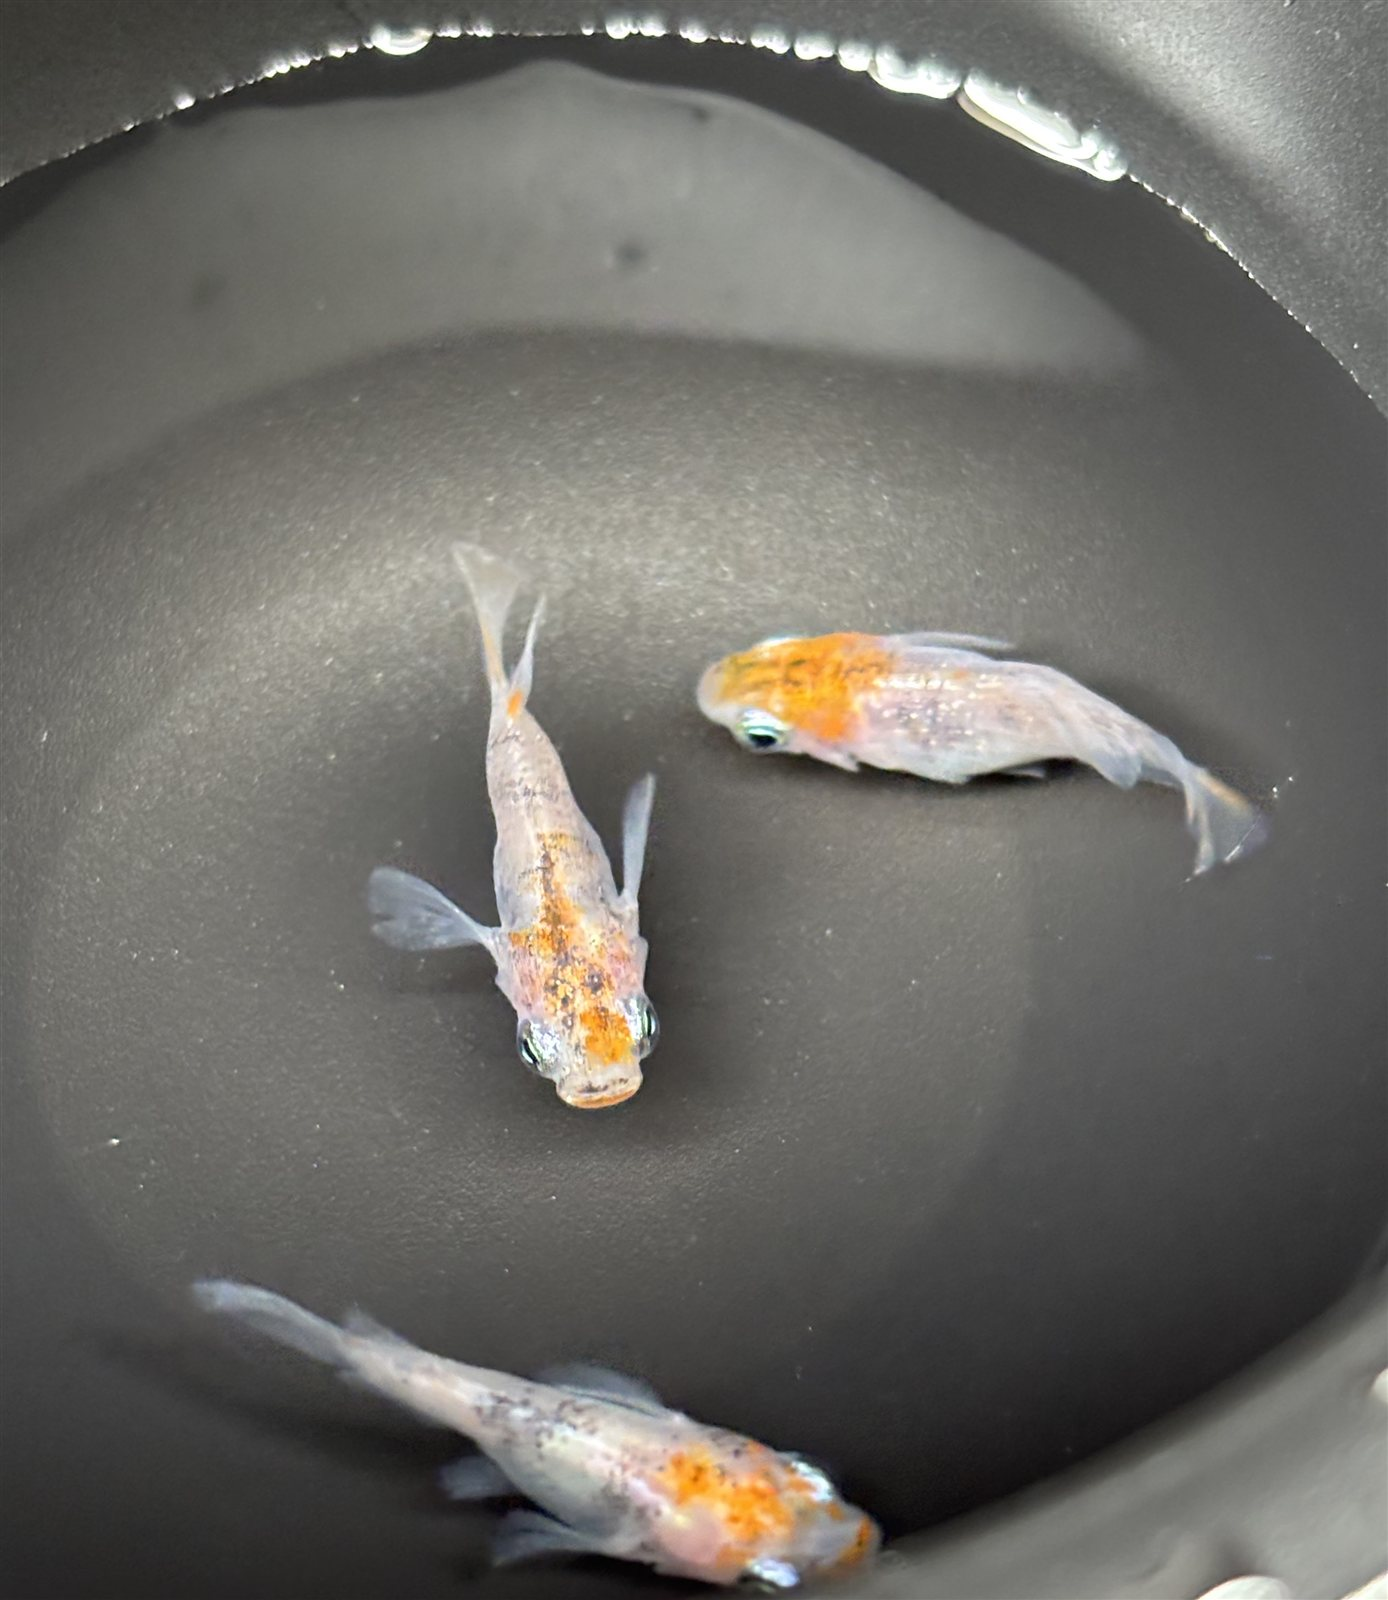
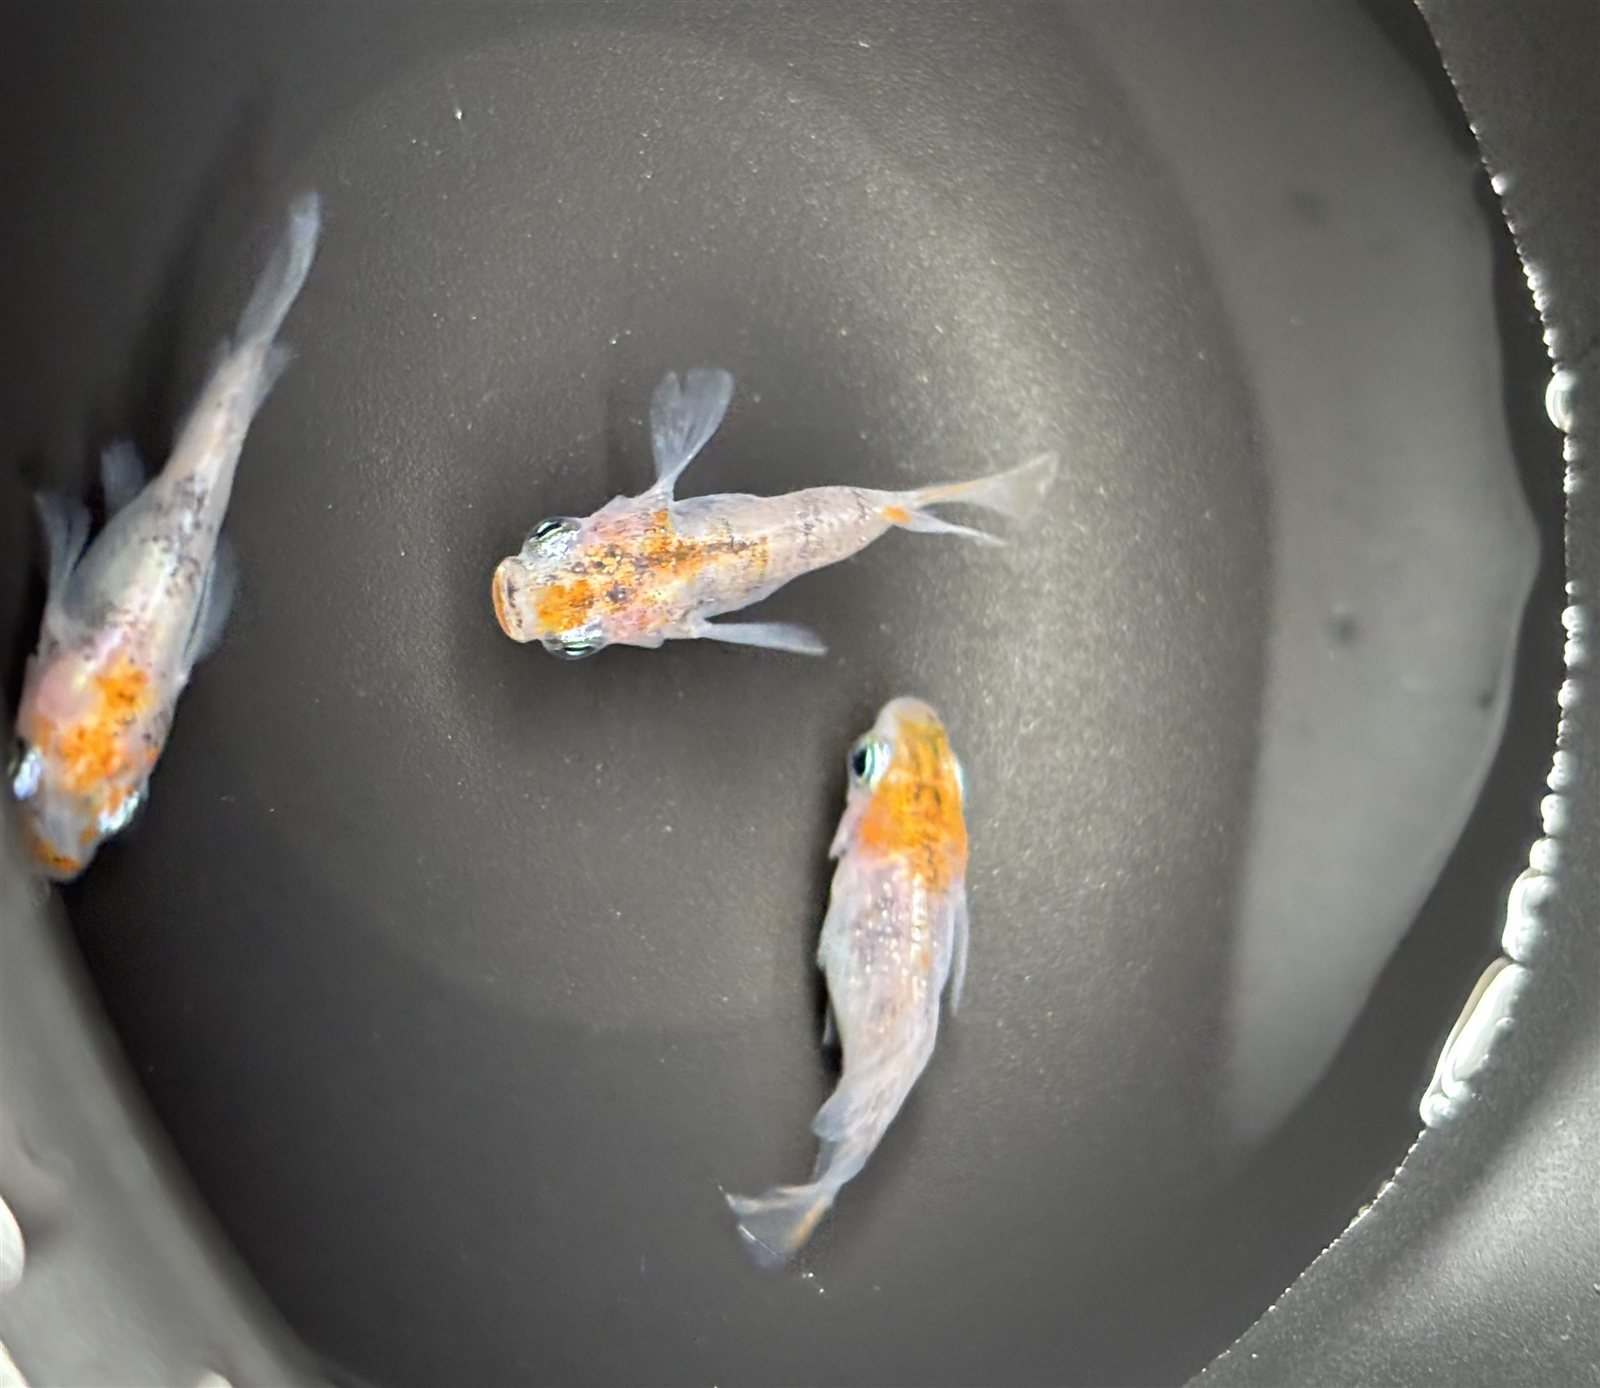
トップページ写真・背景・キャッチコピー・要件定義書変更

diff --git a/css/style.css b/css/style.css
@@ -120,24 +120,76 @@ a {
 }
 
 /* ホーム */
+/* 画面の横幅いっぱいの黒い帯。色は写真の背景（容器の黒）になじむ色 */
 .hero {
+  position: relative;
   margin: 0;
+  padding: 28px var(--gutter);
+  background: #1a1a18;
 }
 
-/* 横長(4:3)に切り抜く。メダカが写っている下寄りの位置を残す */
+/* キャッチコピー。スマホなど狭い画面では、写真のすぐ下に横書きで1行で表示する */
+.hero__copy {
+  margin: 16px 0 0;
+  color: #FFFFFF;
+  font-family: "Yuji Syuku", "Shippori Mincho", serif;
+  font-size: 1.1rem;
+  font-weight: 400;
+  letter-spacing: 0.2em;
+  text-indent: 0.2em; /* 文字間の余白が末尾に付く分、中央からずれないように */
+  text-align: center;
+  white-space: nowrap;
+}
+
+.hero__copy br {
+  display: none;
+}
+
+/* 広い画面では、帯の左の余白に縦書き（写真と重ならない幅のときだけ） */
+@media (min-width: 960px) {
+  .hero__copy {
+    position: absolute;
+    top: 50%;
+    left: max(32px, calc((100% - var(--max-width)) / 2 + var(--gutter)));
+    margin: 0;
+    transform: translateY(-50%);
+    writing-mode: vertical-rl;
+    font-size: 1.5rem;
+    line-height: 1.7;
+    letter-spacing: 0.3em;
+    text-indent: 0;
+    text-align: start;
+  }
+
+  .hero__copy br {
+    display: inline;
+  }
+}
+
+/* 写真は切り抜かず全体を表示。元の縦横比のまま、高さは最大500px。
+   スマホでは画面幅に合わせて縮む。 */
 .hero img {
-  width: 100%;
-  max-width: 720px;
-  aspect-ratio: 4 / 3;
-  object-fit: cover;
-  object-position: 50% 60%;
+  display: block;
+  width: auto;
+  height: auto;
+  max-width: 100%;
+  max-height: 500px;
   margin: 0 auto;
-  border-radius: var(--radius);
+  /* ふちを黒い帯に向かってぼかす。メダカは左右とも端から15%以上内側にあるので、
+     左右のぼかしは12%まで。上は尾びれが端から3%ほどの所にあるので2.5%まで、
+     下は写真の下側に余白をとってあるので6%まで。いずれもメダカにかからないようにしている */
+  -webkit-mask-image:
+    linear-gradient(to right, transparent 0, #000 12%, #000 88%, transparent 100%),
+    linear-gradient(to bottom, transparent 0, #000 2.5%, #000 94%, transparent 100%);
+  -webkit-mask-composite: source-in;
+  mask-image:
+    linear-gradient(to right, transparent 0, #000 12%, #000 88%, transparent 100%),
+    linear-gradient(to bottom, transparent 0, #000 2.5%, #000 94%, transparent 100%);
+  mask-composite: intersect;
 }
 
 .intro {
   text-align: center;
-  padding-top: 32px;
 }
 
 .intro p {

diff --git a/index.html b/index.html
@@ -7,7 +7,7 @@
   <meta name="description" content="ダルマメダカ専門のサイト「ダルマちゃんめだか」。飼育しているダルマメダカをご紹介しています。">
   <link rel="preconnect" href="https://fonts.googleapis.com">
   <link rel="preconnect" href="https://fonts.gstatic.com" crossorigin>
-  <link href="https://fonts.googleapis.com/css2?family=Noto+Sans+JP:wght@400;700&family=Shippori+Mincho:wght@700&display=swap" rel="stylesheet">
+  <link href="https://fonts.googleapis.com/css2?family=Noto+Sans+JP:wght@400;700&family=Shippori+Mincho:wght@700&family=Yuji+Syuku&display=swap" rel="stylesheet">
   <link rel="stylesheet" href="css/style.css">
 </head>
 <body>
@@ -25,12 +25,13 @@
     </div>
   </header>
 
-  <main class="container">
+  <main>
     <figure class="hero">
-      <img src="img/web/amaterasu1.jpg" alt="黒い容器を上から撮影した、アマテラスダルマのメダカ3匹">
+      <img src="img/web/amaterasu3-hero.jpg" alt="黒い容器を上から撮影した、アマテラスダルマのメダカ3匹">
+      <p class="hero__copy">水の中の、<br>ちいさな宝石。</p>
     </figure>
 
-    <section class="intro">
+    <section class="intro container">
       <p>
         ダルマメダカが大好きで、心を込めて大切に育てています。<br>
         ずんぐりとした体つきと、一匹ごとに違う色や模様の美しさをご覧ください。<br>

diff --git a/REQUIREMENTS.md b/REQUIREMENTS.md
@@ -24,6 +24,14 @@
 
 このページは、サイトに最初にアクセスした人が見るページ。  
 ・お気に入りのダルマメダカの写真を大きく1枚掲載  
+　- 使用写真：アマテラスダルマ（元写真：img/amaterasu3.JPG、表示用：img/web/amaterasu3-hero.jpg）  
+　- 写真は、メダカの頭や尾びれが切れない範囲で上下を切り取った（トリミングした）うえで、できるだけ横長で表示する。メダカは写真の中央に置く。  
+　- 写真の高さは最大500px。元の縦横比は保ち、スマホでは画面の幅に合わせて縮める。  
+・写真の後ろに、画面の横幅いっぱいの黒い帯（\#1a1a18）を敷き、写真は帯の中央に置く。  
+　- 写真の左右と上下のふちは、帯の黒になじむようにぼかす。メダカにはぼかしがかからないようにする。写真の角は丸くしない。  
+・黒い帯の中に、キャッチコピー「水の中の、ちいさな宝石。」を入れる。白い文字、字体は Yuji Syuku（Google Fonts）。  
+　- パソコンなど画面幅960px以上：写真と重ならないよう、帯の左側の余白に縦書きで置く（「水の中の、」「ちいさな宝石。」の2行、帯の上下中央）。  
+　- スマホなど画面幅960px未満：写真のすぐ下（黒い帯の中）に、横書きで1行で表示する。  
 ・サイト紹介文（2〜3行程度）  
 ・「品種紹介ページ」「ショップページ」への導線ボタン
 
@@ -56,6 +64,7 @@
 
 ・背景：ほぼ白（\#FAFAF8）  
 ・帯（サイト名の部分）：白（\#FFFFFF）、下に黒の線を入れる。  
+・ホームの写真の後ろの帯：ほぼ黒（\#1a1a18）。写真の背景（容器の黒）になじむ色。  
 ・線、ボタン：黒（\#222222）  
 ・文字色：黒（\#222222）
 
@@ -63,7 +72,8 @@
 
 ・サイト名：Shippori Mincho  
 ・メニュー、本文：Noto Sans JP  
-・メニューの文字は太字にする。
+・メニューの文字は太字にする。  
+・ホームの縦書きキャッチコピー：Yuji Syuku（書道で書いたようなやわらかい字体）
 
 # ボタン
 
@@ -73,7 +83,8 @@
 
 # 写真
 
-・ホームページには三色ダルマの写真を使う。  
+・ホームページにはアマテラスダルマの写真（amaterasu3）を使う。（当初は三色ダルマの写真だったが、変更した）  
+・Web用の写真は、元の写真（img/）を長辺1600px程度に縮小して img/web/ に置く。元の写真は変更しない。  
 ・写真は、黒い容器に入れて上から撮ったものにそろえる。  
 ・メダカの体の色がきれいに見える写真を使う。
 
